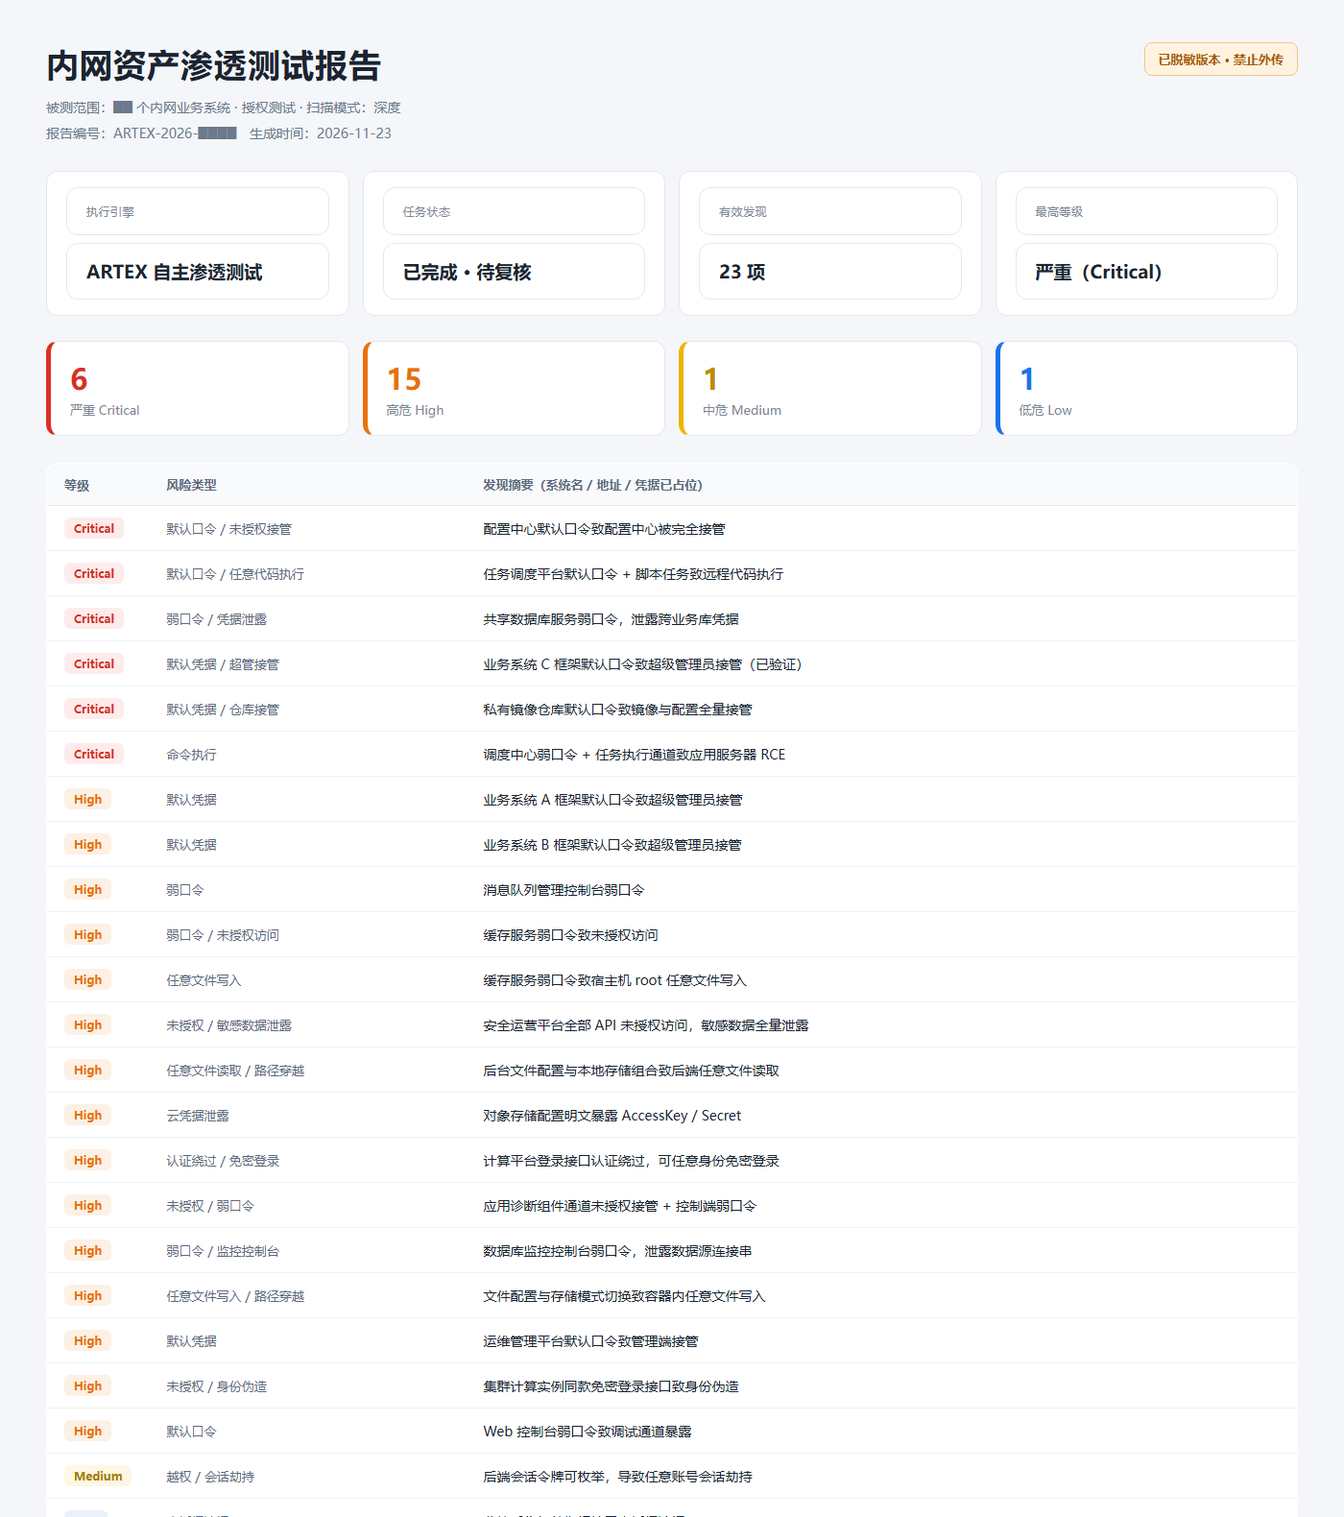
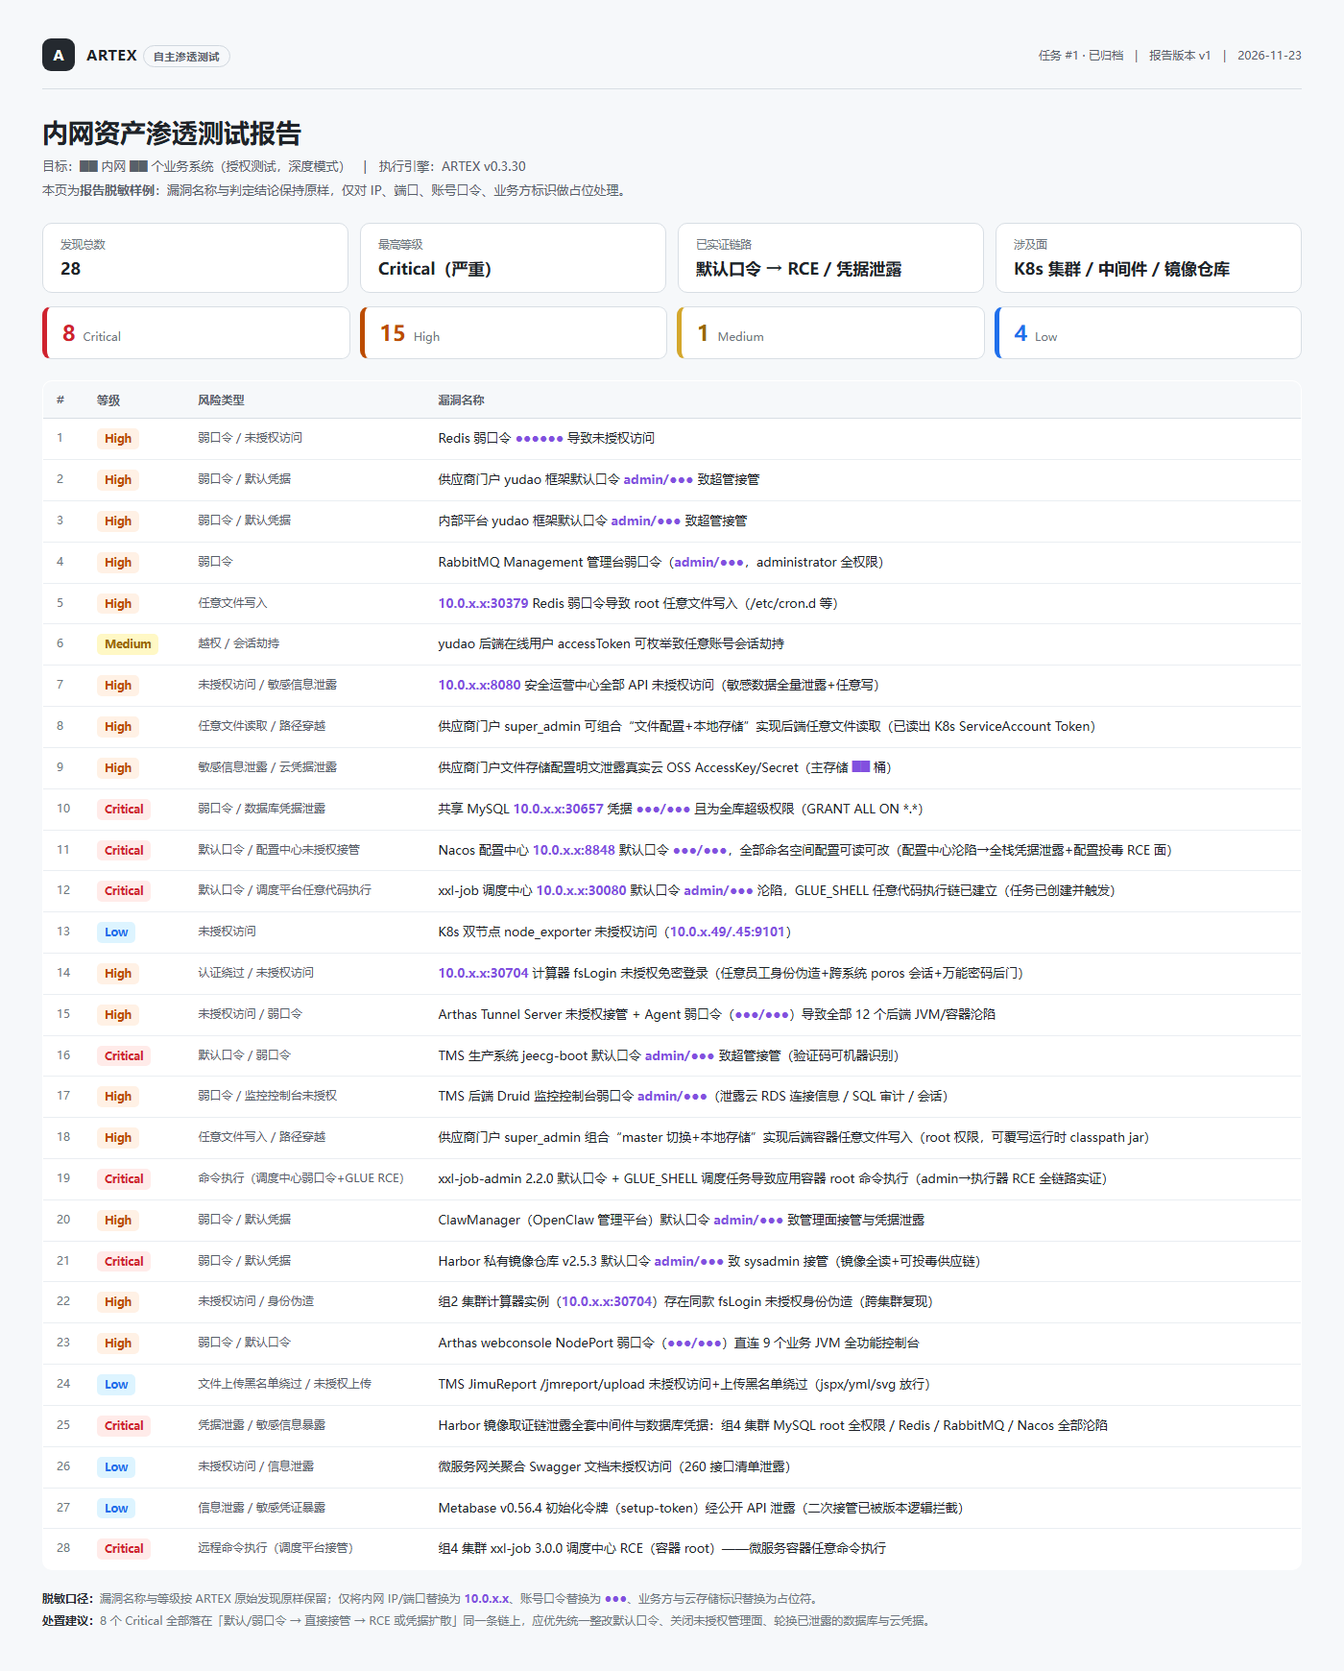
docs: report sample rebuilt from actual findings (real vuln names, only IP/credential masked)

diff --git a/reports/report_redacted.html b/reports/report_redacted.html
@@ -3,113 +3,110 @@
 <head>
 <meta charset="utf-8">
 <style>
-  * { box-sizing: border-box; margin: 0; padding: 0; }
-  body {
-    width: 1400px; font-family: "Microsoft YaHei","PingFang SC",sans-serif;
-    background: #f4f6f9; color: #1b2430; padding: 44px 48px;
-  }
-  .head { display: flex; justify-content: space-between; align-items: flex-start; margin-bottom: 26px; }
-  .title { font-size: 34px; font-weight: 700; letter-spacing: 1px; }
-  .sub { margin-top: 10px; font-size: 14px; color: #6b7a8d; line-height: 1.9; }
-  .badge {
-    background: #fff3e0; color: #a85800; border: 1px solid #f0c48a;
-    padding: 8px 14px; border-radius: 8px; font-size: 13px; font-weight: 600;
-  }
-  .meta { display: flex; gap: 14px; margin-bottom: 26px; }
-  .meta div {
-    flex: 1; background: #fff; border: 1px solid #e3e8ef; border-radius: 12px; padding: 16px 20px;
-  }
-  .meta .k { font-size: 12px; color: #7b8794; letter-spacing: .5px; }
-  .meta .v { margin-top: 8px; font-size: 19px; font-weight: 600; }
-  .stats { display: flex; gap: 14px; margin-bottom: 28px; }
-  .stat { flex: 1; background: #fff; border-radius: 12px; padding: 18px 20px; border-left: 5px solid #cfd8e3; border-top: 1px solid #e3e8ef; border-right: 1px solid #e3e8ef; border-bottom: 1px solid #e3e8ef;}
-  .stat .n { font-size: 30px; font-weight: 700; }
-  .stat .l { font-size: 13px; color: #7b8794; margin-top: 4px; }
-  .c-critical { border-left-color: #d93025; } .c-critical .n { color: #d93025; }
-  .c-high { border-left-color: #e8710a; }     .c-high .n { color: #e8710a; }
-  .c-medium { border-left-color: #f0b400; }   .c-medium .n { color: #bd8b00; }
-  .c-low { border-left-color: #1a73e8; }      .c-low .n { color: #1a73e8; }
-  table { width: 100%; border-collapse: collapse; background: #fff; border-radius: 12px; overflow: hidden; border: 1px solid #e3e8ef; }
-  thead th {
-    background: #f8fafc; text-align: left; font-size: 13px; color: #5b6b7c;
-    padding: 13px 18px; border-bottom: 1px solid #e3e8ef; font-weight: 600;
-  }
-  tbody td { padding: 12px 18px; font-size: 14px; border-bottom: 1px solid #edf1f5; }
-  tbody tr:last-child td { border-bottom: none; }
-  .sev { display: inline-block; padding: 3px 10px; border-radius: 6px; font-size: 12px; font-weight: 700; }
-  .s-critical { background: #fdeceb; color: #d93025; }
-  .s-high { background: #fdf0e4; color: #e8710a; }
-  .s-medium { background: #fdf7e3; color: #a67c00; }
-  .s-low { background: #eaf1fd; color: #1a73e8; }
-  .cls { color: #5b6b7c; font-size: 13px; }
-  .foot { margin-top: 22px; font-size: 12.5px; color: #7b8794; line-height: 1.9; }
-  .foot strong { color: #475569; }
+  *{box-sizing:border-box;margin:0;padding:0}
+  body{width:1400px;background:#f6f8fa;color:#1f2328;font-family:"Microsoft YaHei","PingFang SC",sans-serif;padding:40px 44px 32px}
+  .top{display:flex;justify-content:space-between;align-items:center;border-bottom:1px solid #d8dee4;padding-bottom:18px}
+  .brand{display:flex;align-items:center;gap:12px}
+  .logo{width:34px;height:34px;border-radius:9px;background:#24292f;color:#fff;display:flex;align-items:center;justify-content:center;font-weight:700;font-size:15px}
+  .brandname{font-size:15px;font-weight:600;letter-spacing:.5px}
+  .tag{font-size:11px;color:#57606a;border:1px solid #d0d7de;border-radius:20px;padding:3px 10px;margin-left:6px}
+  .right{font-size:12px;color:#57606a}
+  h1{font-size:27px;font-weight:700;margin:26px 0 6px}
+  .sub{font-size:13px;color:#57606a;line-height:1.9}
+  .cards{display:flex;gap:12px;margin:22px 0 8px}
+  .card{flex:1;background:#fff;border:1px solid #d8dee4;border-radius:10px;padding:14px 18px}
+  .card .k{font-size:11.5px;color:#6e7781}
+  .card .v{font-size:17px;font-weight:600;margin-top:6px}
+  .sevbar{display:flex;gap:10px;margin:14px 0 22px}
+  .sev{flex:1;background:#fff;border:1px solid #d8dee4;border-left-width:5px;border-radius:9px;padding:12px 16px;display:flex;align-items:baseline;gap:8px}
+  .sev b{font-size:22px}
+  .sev span{font-size:12px;color:#6e7781}
+  .c{color:#cf222e;border-left-color:#cf222e}
+  .h{color:#bc4c00;border-left-color:#bc4c00}
+  .m{color:#9a6700;border-left-color:#d4a72c}
+  .l{color:#1f6feb;border-left-color:#1f6feb}
+  table{width:100%;border-collapse:collapse;background:#fff;border:1px solid #d8dee4;border-radius:10px;overflow:hidden}
+  thead th{background:#f6f8fa;font-size:12px;color:#57606a;text-align:left;padding:11px 14px;border-bottom:1px solid #d8dee4;font-weight:600}
+  tbody td{padding:10px 14px;font-size:13px;border-bottom:1px solid #eaeef2;vertical-align:top;line-height:1.55}
+  tbody tr:last-child td{border-bottom:none}
+  .id{color:#6e7781;font-size:12px;width:38px}
+  .pill{display:inline-block;padding:2px 8px;border-radius:5px;font-size:11.5px;font-weight:700;white-space:nowrap}
+  .p-c{background:#ffebe9;color:#cf222e}
+  .p-h{background:#fff1e5;color:#bc4c00}
+  .p-m{background:#fff8c5;color:#9a6700}
+  .p-l{background:#ddf4ff;color:#1f6feb}
+  .cls{color:#57606a;font-size:12px;width:250px}
+  .mask{color:#8250df;font-weight:600}
+  .foot{margin-top:18px;font-size:12px;color:#6e7781;line-height:1.9}
+  .foot b{color:#24292f}
 </style>
 </head>
 <body>
-  <div class="head">
-    <div>
-      <div class="title">内网资产渗透测试报告</div>
-      <div class="sub">
-        被测范围：██ 个内网业务系统 · 授权测试 · 扫描模式：深度<br>
-        报告编号：ARTEX-2026-████　生成时间：2026-11-23
-      </div>
+  <div class="top">
+    <div class="brand">
+      <div class="logo">A</div>
+      <div class="brandname">ARTEX<span class="tag">自主渗透测试</span></div>
     </div>
-    <div class="badge">已脱敏版本 · 禁止外传</div>
+    <div class="right">任务 #1 · 已归档　|　报告版本 v1　|　2026-11-23</div>
   </div>
 
-  <div class="meta">
-    <div><div class="k">执行引擎</div><div class="v">ARTEX 自主渗透测试</div></div>
-    <div><div class="k">任务状态</div><div class="v">已完成 · 待复核</div></div>
-    <div><div class="k">有效发现</div><div class="v">23 项</div></div>
-    <div><div class="k">最高等级</div><div class="v">严重（Critical）</div></div>
+  <h1>内网资产渗透测试报告</h1>
+  <div class="sub">
+    目标：██ 内网 ██ 个业务系统（授权测试，深度模式）　|　执行引擎：ARTEX v0.3.30<br>
+    本页为<b>报告脱敏样例</b>：漏洞名称与判定结论保持原样，仅对 IP、端口、账号口令、业务方标识做占位处理。
   </div>
 
-  <div class="stats">
-    <div class="stat c-critical"><div class="n">6</div><div class="l">严重 Critical</div></div>
-    <div class="stat c-high"><div class="n">15</div><div class="l">高危 High</div></div>
-    <div class="stat c-medium"><div class="n">1</div><div class="l">中危 Medium</div></div>
-    <div class="stat c-low"><div class="n">1</div><div class="l">低危 Low</div></div>
+  <div class="cards">
+    <div class="card"><div class="k">发现总数</div><div class="v">28</div></div>
+    <div class="card"><div class="k">最高等级</div><div class="v">Critical（严重）</div></div>
+    <div class="card"><div class="k">已实证链路</div><div class="v">默认口令 → RCE / 凭据泄露</div></div>
+    <div class="card"><div class="k">涉及面</div><div class="v">K8s 集群 / 中间件 / 镜像仓库</div></div>
+  </div>
+
+  <div class="sevbar">
+    <div class="sev c"><b>8</b><span>Critical</span></div>
+    <div class="sev h"><b>15</b><span>High</span></div>
+    <div class="sev m"><b>1</b><span>Medium</span></div>
+    <div class="sev l"><b>4</b><span>Low</span></div>
   </div>
 
   <table>
-    <thead>
-      <tr>
-        <th style="width:90px">等级</th>
-        <th style="width:330px">风险类型</th>
-        <th>发现摘要（系统名 / 地址 / 凭据已占位）</th>
-      </tr>
-    </thead>
+    <thead><tr><th>#</th><th>等级</th><th>风险类型</th><th>漏洞名称</th></tr></thead>
     <tbody>
-      <tr><td><span class="sev s-critical">Critical</span></td><td class="cls">默认口令 / 未授权接管</td><td>配置中心默认口令致配置中心被完全接管</td></tr>
-      <tr><td><span class="sev s-critical">Critical</span></td><td class="cls">默认口令 / 任意代码执行</td><td>任务调度平台默认口令 + 脚本任务致远程代码执行</td></tr>
-      <tr><td><span class="sev s-critical">Critical</span></td><td class="cls">弱口令 / 凭据泄露</td><td>共享数据库服务弱口令，泄露跨业务库凭据</td></tr>
-      <tr><td><span class="sev s-critical">Critical</span></td><td class="cls">默认凭据 / 超管接管</td><td>业务系统 C 框架默认口令致超级管理员接管（已验证）</td></tr>
-      <tr><td><span class="sev s-critical">Critical</span></td><td class="cls">默认凭据 / 仓库接管</td><td>私有镜像仓库默认口令致镜像与配置全量接管</td></tr>
-      <tr><td><span class="sev s-critical">Critical</span></td><td class="cls">命令执行</td><td>调度中心弱口令 + 任务执行通道致应用服务器 RCE</td></tr>
-      <tr><td><span class="sev s-high">High</span></td><td class="cls">默认凭据</td><td>业务系统 A 框架默认口令致超级管理员接管</td></tr>
-      <tr><td><span class="sev s-high">High</span></td><td class="cls">默认凭据</td><td>业务系统 B 框架默认口令致超级管理员接管</td></tr>
-      <tr><td><span class="sev s-high">High</span></td><td class="cls">弱口令</td><td>消息队列管理控制台弱口令</td></tr>
-      <tr><td><span class="sev s-high">High</span></td><td class="cls">弱口令 / 未授权访问</td><td>缓存服务弱口令致未授权访问</td></tr>
-      <tr><td><span class="sev s-high">High</span></td><td class="cls">任意文件写入</td><td>缓存服务弱口令致宿主机 root 任意文件写入</td></tr>
-      <tr><td><span class="sev s-high">High</span></td><td class="cls">未授权 / 敏感数据泄露</td><td>安全运营平台全部 API 未授权访问，敏感数据全量泄露</td></tr>
-      <tr><td><span class="sev s-high">High</span></td><td class="cls">任意文件读取 / 路径穿越</td><td>后台文件配置与本地存储组合致后端任意文件读取</td></tr>
-      <tr><td><span class="sev s-high">High</span></td><td class="cls">云凭据泄露</td><td>对象存储配置明文暴露 AccessKey / Secret</td></tr>
-      <tr><td><span class="sev s-high">High</span></td><td class="cls">认证绕过 / 免密登录</td><td>计算平台登录接口认证绕过，可任意身份免密登录</td></tr>
-      <tr><td><span class="sev s-high">High</span></td><td class="cls">未授权 / 弱口令</td><td>应用诊断组件通道未授权接管 + 控制端弱口令</td></tr>
-      <tr><td><span class="sev s-high">High</span></td><td class="cls">弱口令 / 监控控制台</td><td>数据库监控控制台弱口令，泄露数据源连接串</td></tr>
-      <tr><td><span class="sev s-high">High</span></td><td class="cls">任意文件写入 / 路径穿越</td><td>文件配置与存储模式切换致容器内任意文件写入</td></tr>
-      <tr><td><span class="sev s-high">High</span></td><td class="cls">默认凭据</td><td>运维管理平台默认口令致管理端接管</td></tr>
-      <tr><td><span class="sev s-high">High</span></td><td class="cls">未授权 / 身份伪造</td><td>集群计算实例同款免密登录接口致身份伪造</td></tr>
-      <tr><td><span class="sev s-high">High</span></td><td class="cls">默认口令</td><td>Web 控制台弱口令致调试通道暴露</td></tr>
-      <tr><td><span class="sev s-medium">Medium</span></td><td class="cls">越权 / 会话劫持</td><td>后端会话令牌可枚举，导致任意账号会话劫持</td></tr>
-      <tr><td><span class="sev s-low">Low</span></td><td class="cls">未授权访问</td><td>监控采集组件指标接口未授权访问</td></tr>
+      <tr><td class="id">1</td><td><span class="pill p-h">High</span></td><td class="cls">弱口令 / 未授权访问</td><td>Redis 弱口令 <span class="mask">●●●●●●</span> 导致未授权访问</td></tr>
+      <tr><td class="id">2</td><td><span class="pill p-h">High</span></td><td class="cls">弱口令 / 默认凭据</td><td>供应商门户 yudao 框架默认口令 <span class="mask">admin/●●●</span> 致超管接管</td></tr>
+      <tr><td class="id">3</td><td><span class="pill p-h">High</span></td><td class="cls">弱口令 / 默认凭据</td><td>内部平台 yudao 框架默认口令 <span class="mask">admin/●●●</span> 致超管接管</td></tr>
+      <tr><td class="id">4</td><td><span class="pill p-h">High</span></td><td class="cls">弱口令</td><td>RabbitMQ Management 管理台弱口令（<span class="mask">admin/●●●</span>，administrator 全权限）</td></tr>
+      <tr><td class="id">5</td><td><span class="pill p-h">High</span></td><td class="cls">任意文件写入</td><td><span class="mask">10.0.x.x:30379</span> Redis 弱口令导致 root 任意文件写入（/etc/cron.d 等）</td></tr>
+      <tr><td class="id">6</td><td><span class="pill p-m">Medium</span></td><td class="cls">越权 / 会话劫持</td><td>yudao 后端在线用户 accessToken 可枚举致任意账号会话劫持</td></tr>
+      <tr><td class="id">7</td><td><span class="pill p-h">High</span></td><td class="cls">未授权访问 / 敏感信息泄露</td><td><span class="mask">10.0.x.x:8080</span> 安全运营中心全部 API 未授权访问（敏感数据全量泄露+任意写）</td></tr>
+      <tr><td class="id">8</td><td><span class="pill p-h">High</span></td><td class="cls">任意文件读取 / 路径穿越</td><td>供应商门户 super_admin 可组合“文件配置+本地存储”实现后端任意文件读取（已读出 K8s ServiceAccount Token）</td></tr>
+      <tr><td class="id">9</td><td><span class="pill p-h">High</span></td><td class="cls">敏感信息泄露 / 云凭据泄露</td><td>供应商门户文件存储配置明文泄露真实云 OSS AccessKey/Secret（主存储 <span class="mask">██</span> 桶）</td></tr>
+      <tr><td class="id">10</td><td><span class="pill p-c">Critical</span></td><td class="cls">弱口令 / 数据库凭据泄露</td><td>共享 MySQL <span class="mask">10.0.x.x:30657</span> 凭据 <span class="mask">●●●/●●●</span> 且为全库超级权限（GRANT ALL ON *.*）</td></tr>
+      <tr><td class="id">11</td><td><span class="pill p-c">Critical</span></td><td class="cls">默认口令 / 配置中心未授权接管</td><td>Nacos 配置中心 <span class="mask">10.0.x.x:8848</span> 默认口令 <span class="mask">●●●/●●●</span>，全部命名空间配置可读可改（配置中心沦陷→全栈凭据泄露+配置投毒 RCE 面）</td></tr>
+      <tr><td class="id">12</td><td><span class="pill p-c">Critical</span></td><td class="cls">默认口令 / 调度平台任意代码执行</td><td>xxl-job 调度中心 <span class="mask">10.0.x.x:30080</span> 默认口令 <span class="mask">admin/●●●</span> 沦陷，GLUE_SHELL 任意代码执行链已建立（任务已创建并触发）</td></tr>
+      <tr><td class="id">13</td><td><span class="pill p-l">Low</span></td><td class="cls">未授权访问</td><td>K8s 双节点 node_exporter 未授权访问（<span class="mask">10.0.x.49/.45:9101</span>）</td></tr>
+      <tr><td class="id">14</td><td><span class="pill p-h">High</span></td><td class="cls">认证绕过 / 未授权访问</td><td><span class="mask">10.0.x.x:30704</span> 计算器 fsLogin 未授权免密登录（任意员工身份伪造+跨系统 poros 会话+万能密码后门）</td></tr>
+      <tr><td class="id">15</td><td><span class="pill p-h">High</span></td><td class="cls">未授权访问 / 弱口令</td><td>Arthas Tunnel Server 未授权接管 + Agent 弱口令（<span class="mask">●●●/●●●</span>）导致全部 12 个后端 JVM/容器沦陷</td></tr>
+      <tr><td class="id">16</td><td><span class="pill p-c">Critical</span></td><td class="cls">默认口令 / 弱口令</td><td>TMS 生产系统 jeecg-boot 默认口令 <span class="mask">admin/●●●</span> 致超管接管（验证码可机器识别）</td></tr>
+      <tr><td class="id">17</td><td><span class="pill p-h">High</span></td><td class="cls">弱口令 / 监控控制台未授权</td><td>TMS 后端 Druid 监控控制台弱口令 <span class="mask">admin/●●●</span>（泄露云 RDS 连接信息 / SQL 审计 / 会话）</td></tr>
+      <tr><td class="id">18</td><td><span class="pill p-h">High</span></td><td class="cls">任意文件写入 / 路径穿越</td><td>供应商门户 super_admin 组合“master 切换+本地存储”实现后端容器任意文件写入（root 权限，可覆写运行时 classpath jar）</td></tr>
+      <tr><td class="id">19</td><td><span class="pill p-c">Critical</span></td><td class="cls">命令执行（调度中心弱口令+GLUE RCE）</td><td>xxl-job-admin 2.2.0 默认口令 + GLUE_SHELL 调度任务导致应用容器 root 命令执行（admin→执行器 RCE 全链路实证）</td></tr>
+      <tr><td class="id">20</td><td><span class="pill p-h">High</span></td><td class="cls">弱口令 / 默认凭据</td><td>ClawManager（OpenClaw 管理平台）默认口令 <span class="mask">admin/●●●</span> 致管理面接管与凭据泄露</td></tr>
+      <tr><td class="id">21</td><td><span class="pill p-c">Critical</span></td><td class="cls">弱口令 / 默认凭据</td><td>Harbor 私有镜像仓库 v2.5.3 默认口令 <span class="mask">admin/●●●</span> 致 sysadmin 接管（镜像全读+可投毒供应链）</td></tr>
+      <tr><td class="id">22</td><td><span class="pill p-h">High</span></td><td class="cls">未授权访问 / 身份伪造</td><td>组2 集群计算器实例（<span class="mask">10.0.x.x:30704</span>）存在同款 fsLogin 未授权身份伪造（跨集群复现）</td></tr>
+      <tr><td class="id">23</td><td><span class="pill p-h">High</span></td><td class="cls">弱口令 / 默认口令</td><td>Arthas webconsole NodePort 弱口令（<span class="mask">●●●/●●●</span>）直连 9 个业务 JVM 全功能控制台</td></tr>
+      <tr><td class="id">24</td><td><span class="pill p-l">Low</span></td><td class="cls">文件上传黑名单绕过 / 未授权上传</td><td>TMS JimuReport /jmreport/upload 未授权访问+上传黑名单绕过（jspx/yml/svg 放行）</td></tr>
+      <tr><td class="id">25</td><td><span class="pill p-c">Critical</span></td><td class="cls">凭据泄露 / 敏感信息暴露</td><td>Harbor 镜像取证链泄露全套中间件与数据库凭据：组4 集群 MySQL root 全权限 / Redis / RabbitMQ / Nacos 全部沦陷</td></tr>
+      <tr><td class="id">26</td><td><span class="pill p-l">Low</span></td><td class="cls">未授权访问 / 信息泄露</td><td>微服务网关聚合 Swagger 文档未授权访问（260 接口清单泄露）</td></tr>
+      <tr><td class="id">27</td><td><span class="pill p-l">Low</span></td><td class="cls">信息泄露 / 敏感凭证暴露</td><td>Metabase v0.56.4 初始化令牌（setup-token）经公开 API 泄露（二次接管已被版本逻辑拦截）</td></tr>
+      <tr><td class="id">28</td><td><span class="pill p-c">Critical</span></td><td class="cls">远程命令执行（调度平台接管）</td><td>组4 集群 xxl-job 3.0.0 调度中心 RCE（容器 root）——微服务容器任意命令执行</td></tr>
     </tbody>
   </table>
 
   <div class="foot">
-    <strong>脱敏说明：</strong>本图已对被测系统名称、内网 IP 地址、端口、账号口令、云凭据、业务标识等敏感信息做占位与替换处理，仅用于内部留档与汇报演示。<br>
-    <strong>处置建议：</strong>严重项须优先处置——统一整改默认口令与弱口令、关闭未授权管理端点、收紧配置中心与调度平台访问控制、轮换已泄露的云与数据库凭据。
+    <b>脱敏口径：</b>漏洞名称与等级按 ARTEX 原始发现原样保留；仅将内网 IP/端口替换为 <span class="mask">10.0.x.x</span>、账号口令替换为 <span class="mask">●●●</span>、业务方与云存储标识替换为占位符。<br>
+    <b>处置建议：</b>8 个 Critical 全部落在「默认/弱口令 → 直接接管 → RCE 或凭据扩散」同一条链上，应优先统一整改默认口令、关闭未授权管理面、轮换已泄露的数据库与云凭据。
   </div>
 </body>
 </html>
